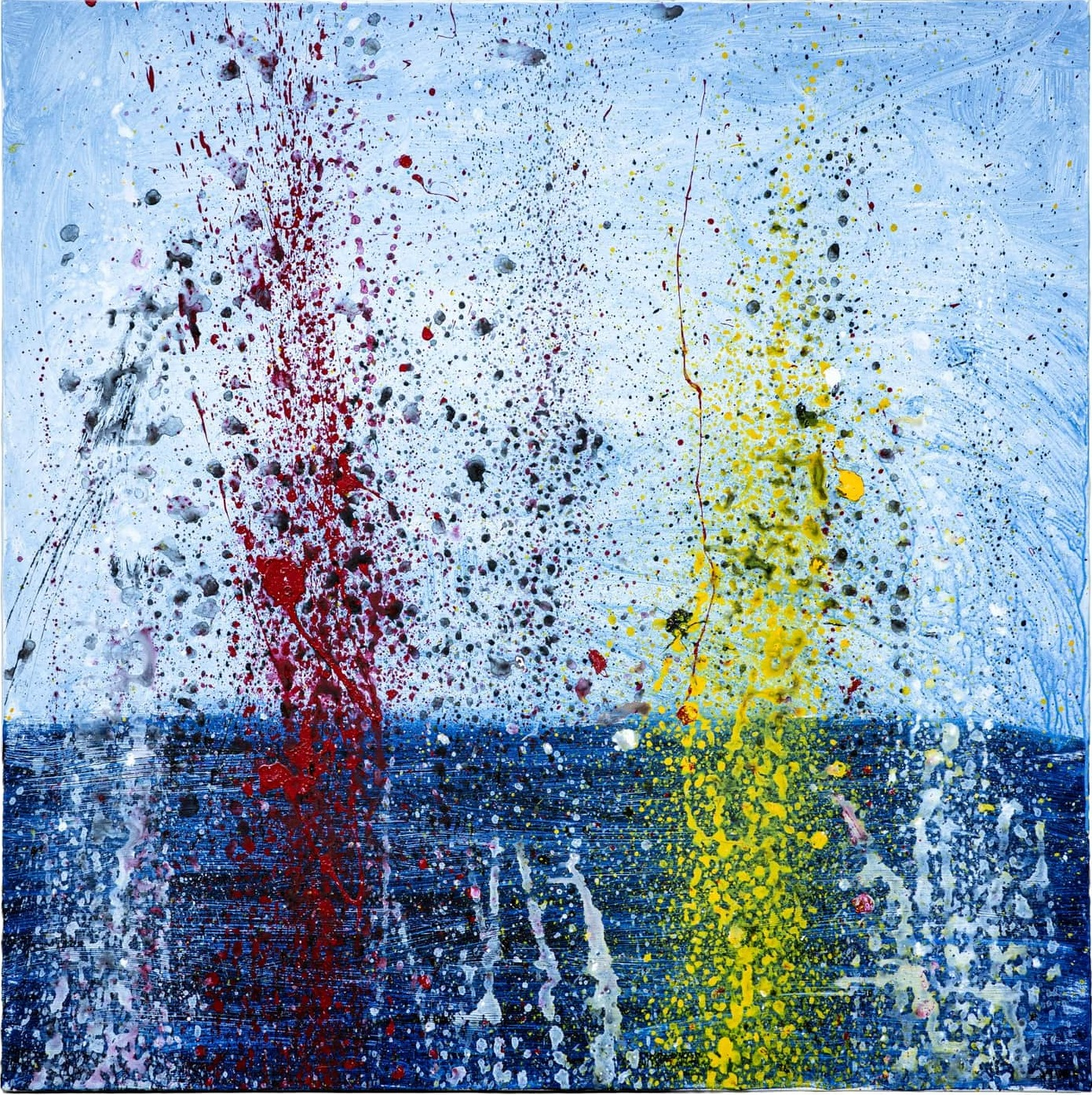
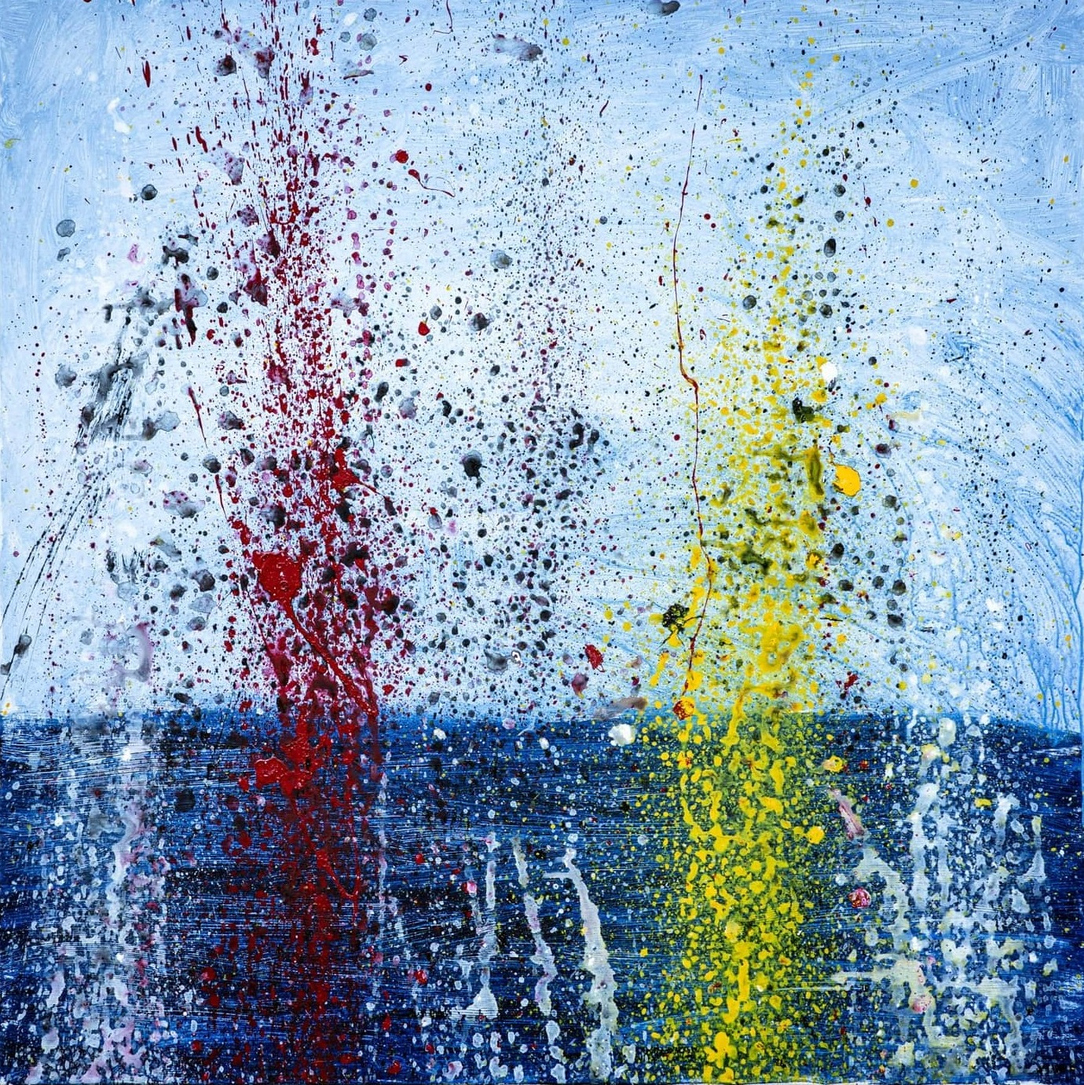
fix(toiles): aggressive re-crop + sync dimensions + noMat triptych
Second pass: multi-pass aggressive crop (threshold 220) on all 22 toile
images to eliminate remaining 1-12px white borders missed by first crop.
Toile 5 required 5 passes, triptych panels 17-droite/milieu 2 passes.

- Update all 20 dimension entries in toiles.json to match actual post-crop sizes
- Add noMat to triptych panels in ToilesContent (was missing, caused gap)
- Fix AtelierDoors toile 9 preview dimensions (1281x1281 → 1268x1263)
- Regenerate blur placeholders after image changes

Verified: zero white pixels visible in Chrome (Klein d'oeil, Land HO,
Evasion, homepage toile section all checked).

diff --git a/components/toiles/ToilesContent.tsx b/components/toiles/ToilesContent.tsx
@@ -158,6 +158,7 @@ export default function ToilesContent({ toiles, showPrices = false }: ToilesCont
                               frameColor="black"
                               blurDataURL={BLUR[img]}
                               className="w-full"
+                              noMat
                             />
                           </div>
                         );

diff --git a/components/AtelierDoors.tsx b/components/AtelierDoors.tsx
@@ -8,8 +8,8 @@ const doors = [
     label: "Toiles",
     subtitle: "Peintures sur toile",
     previewImage: "/images/toiles/9.jpg",
-    previewWidth: 1281,
-    previewHeight: 1281,
+    previewWidth: 1268,
+    previewHeight: 1263,
     frameColor: "black" as const,
   },
   {
